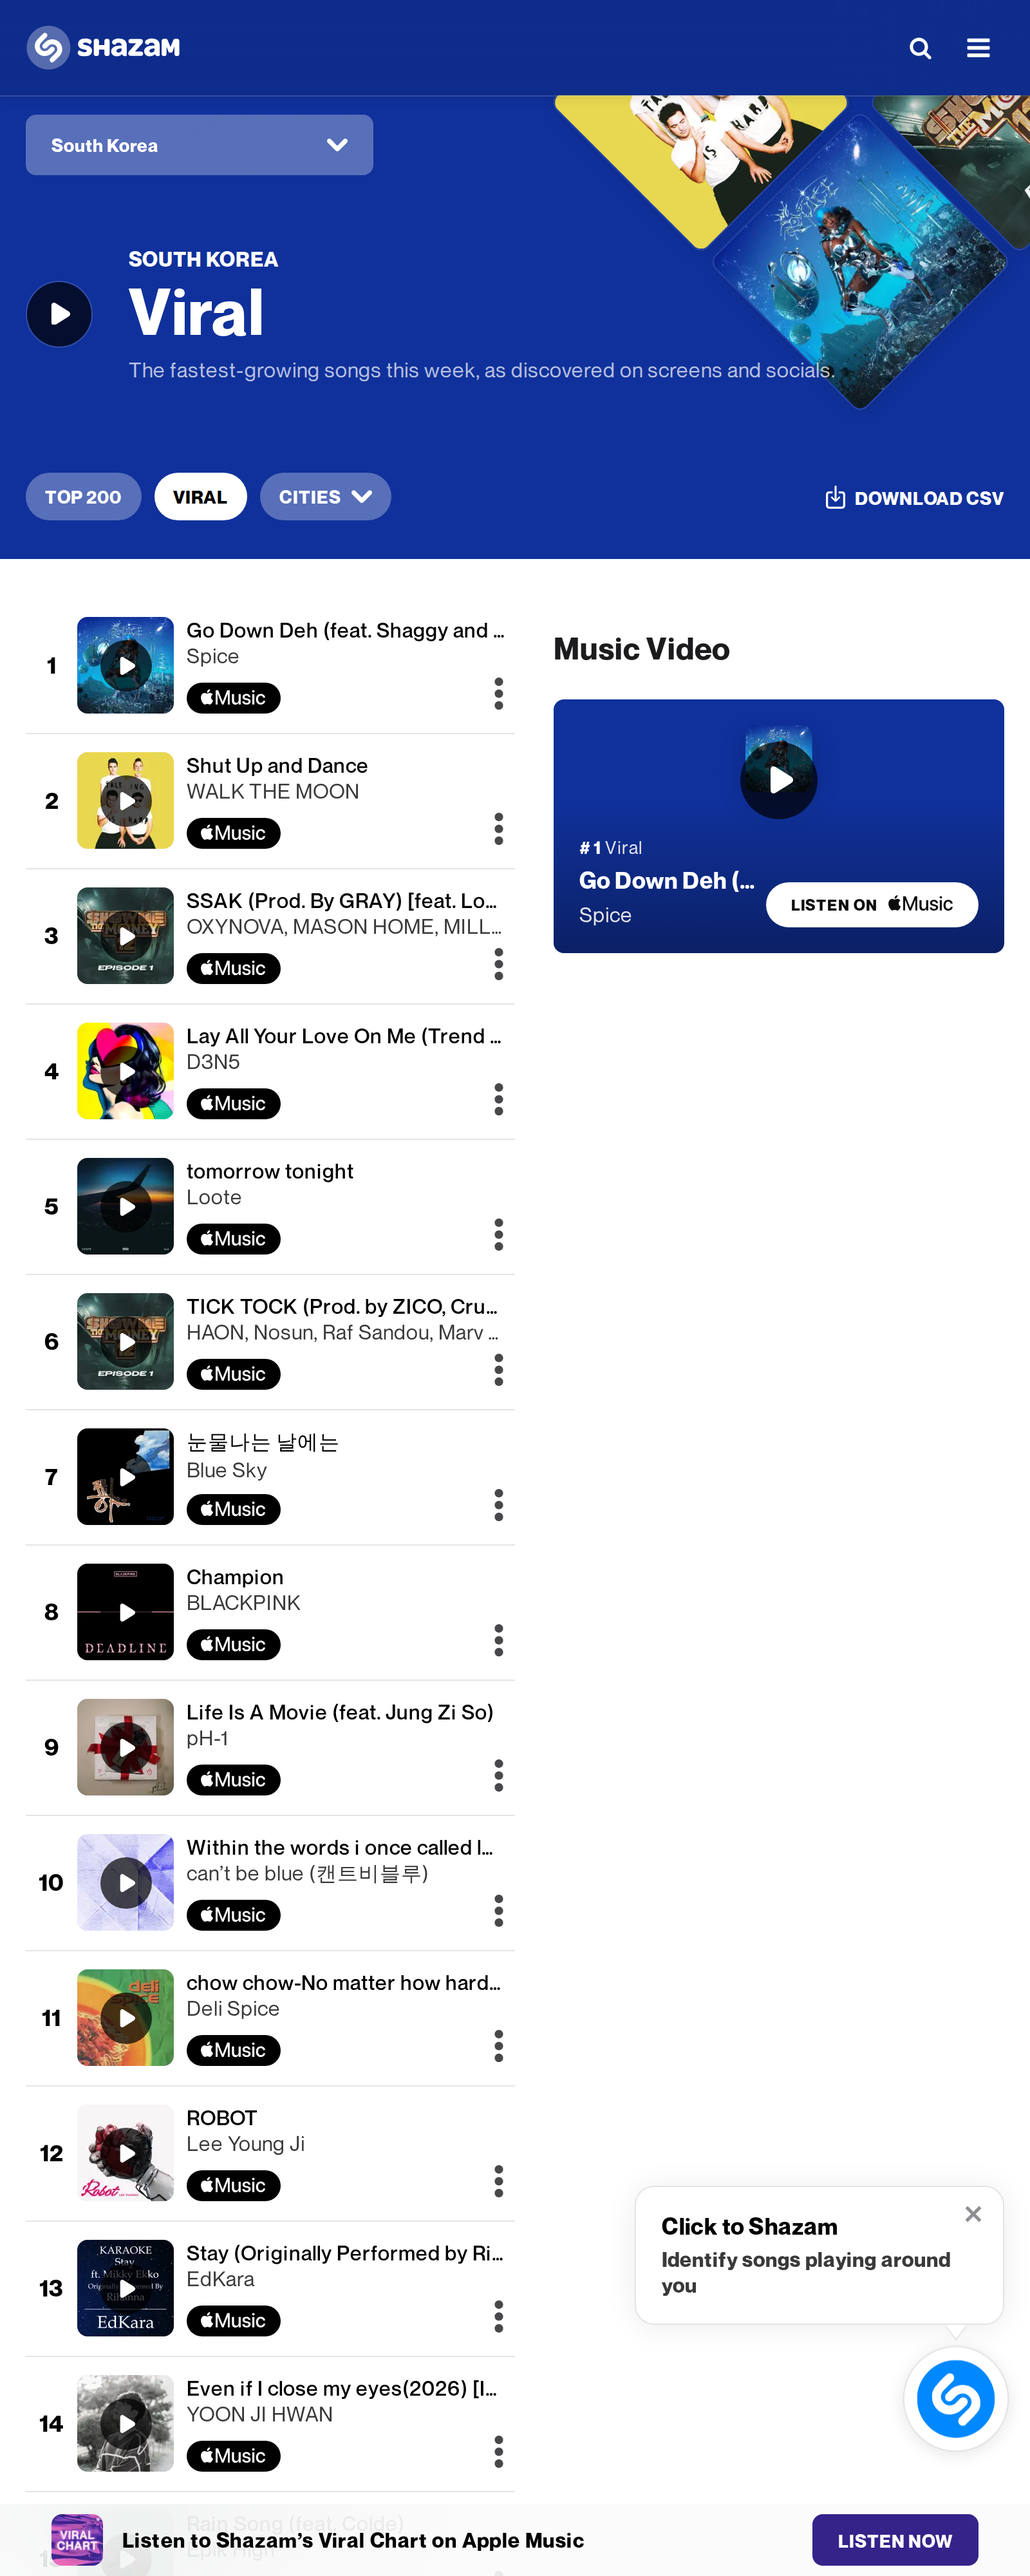
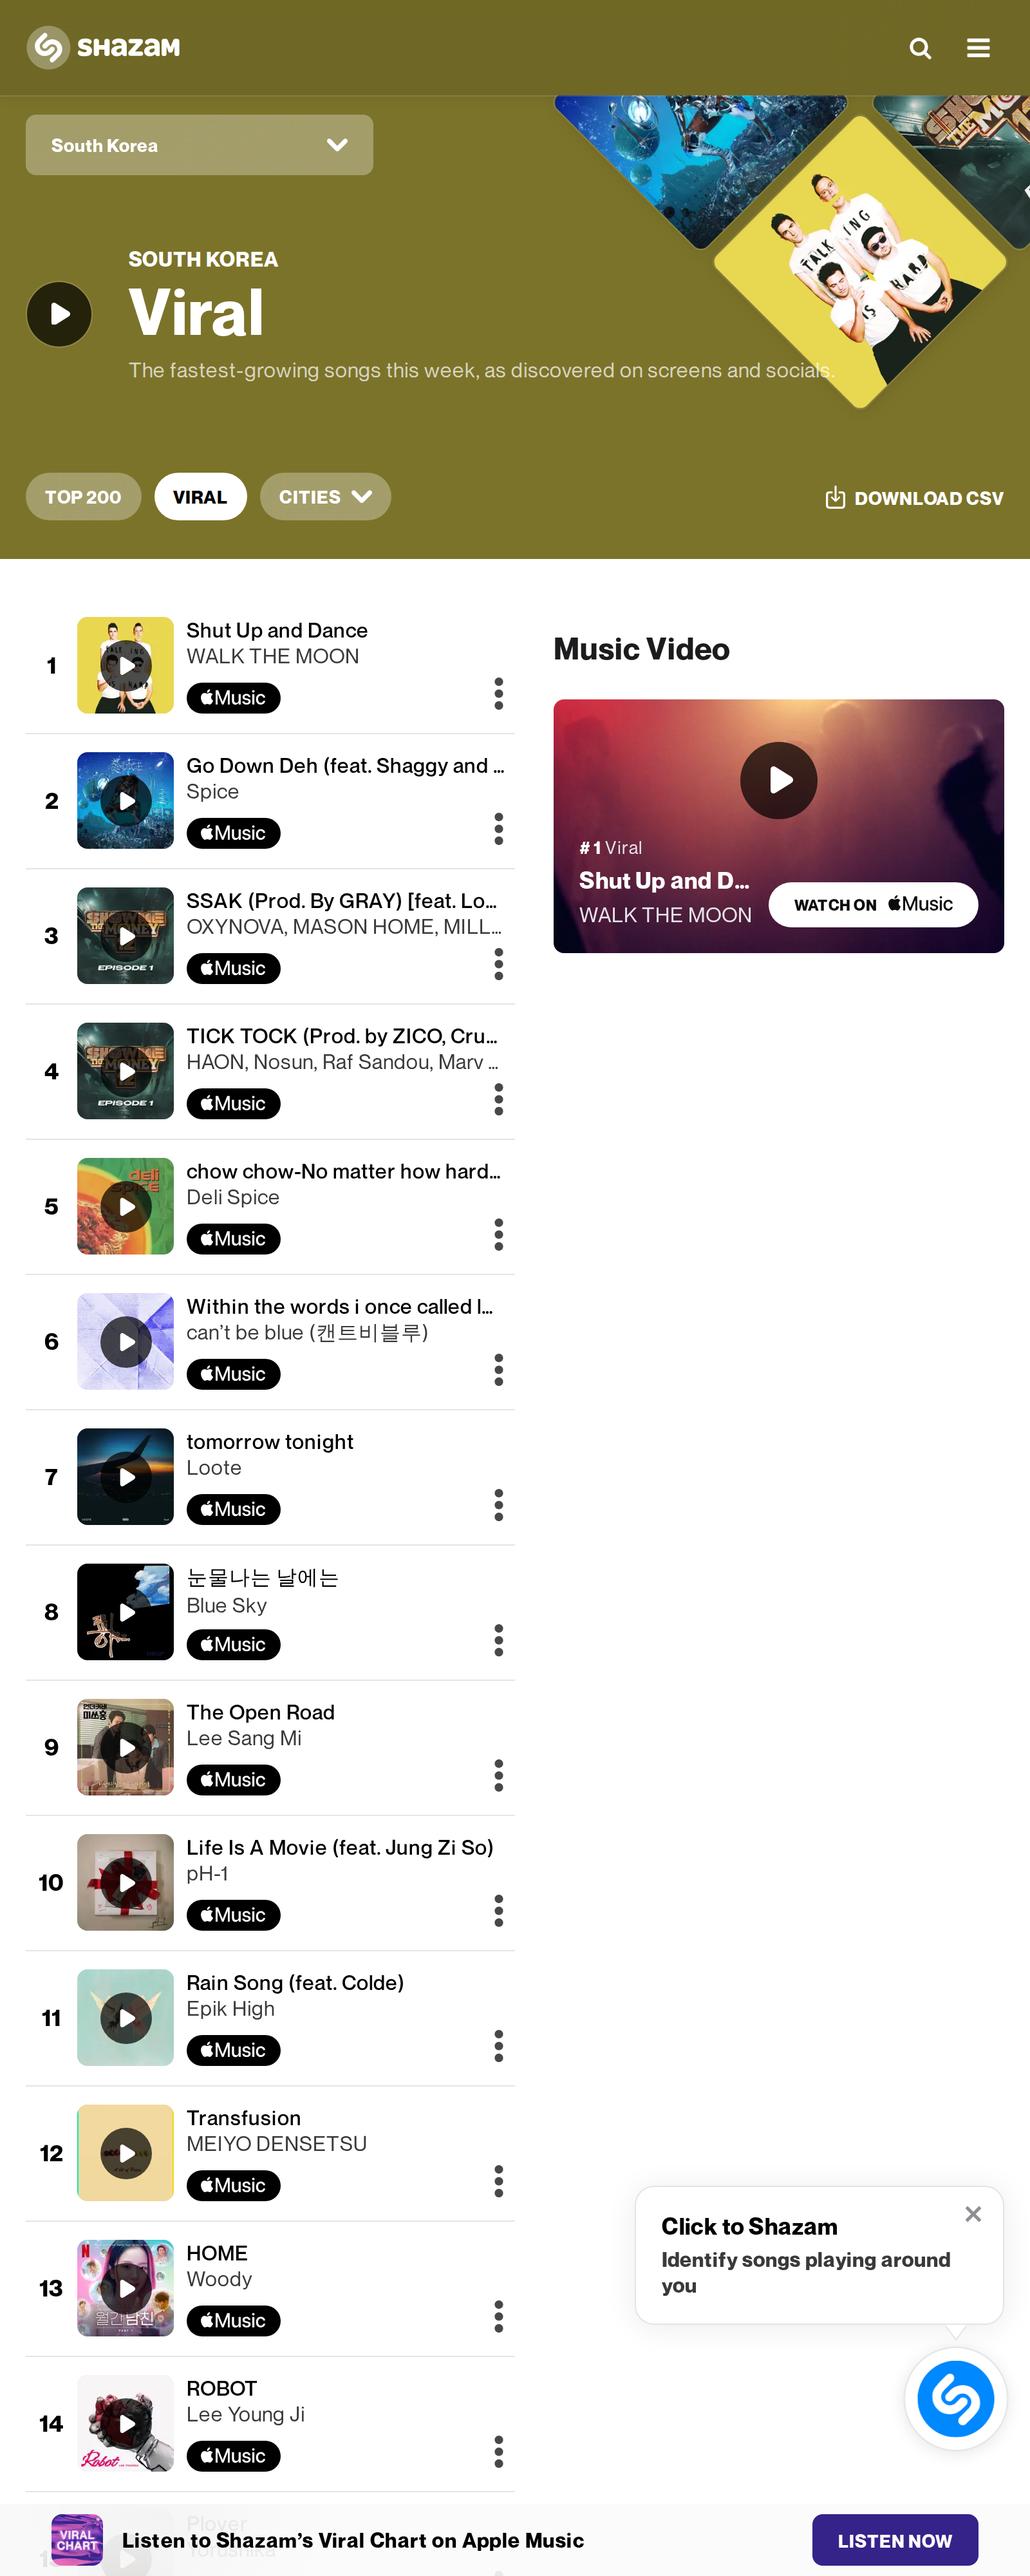
Auto-update: 차트 캡처 및 사이트 빌드 완료 🎸

diff --git a/homepage/rank_data.js b/homepage/rank_data.js
@@ -1,5 +1,5 @@
 const rankData = {
-    "last_updated": "2026-03-09 08:25:05",
+    "last_updated": "2026-03-10 08:30:43",
     "billboard": [
         {
             "rank": 1,
@@ -189,31 +189,31 @@ const rankData = {
         },
         {
             "rank": 7,
-            "title": "0+0",
-            "artist": "한로로",
-            "image": "https://i.ytimg.com/vi/_Ngk-DCHfD0/hqdefault.jpg",
-            "videoId": "_Ngk-DCHfD0"
-        },
-        {
-            "rank": 8,
-            "title": "그대 작은 나의 세상이 되어",
-            "artist": "카더가든",
-            "image": "https://i.ytimg.com/vi/ZurHW2kBqrw/hqdefault.jpg",
-            "videoId": "ZurHW2kBqrw"
-        },
-        {
-            "rank": 9,
             "title": "TICK TOCK (Feat. ZICO) (Prod. by ZICO, Crush)",
             "artist": "김하온 (HAON)",
             "image": "https://i.ytimg.com/vi/0sxLgAVPWVs/hqdefault.jpg",
             "videoId": "0sxLgAVPWVs"
         },
         {
-            "rank": 10,
+            "rank": 8,
+            "title": "0+0",
+            "artist": "한로로",
+            "image": "https://i.ytimg.com/vi/_Ngk-DCHfD0/hqdefault.jpg",
+            "videoId": "_Ngk-DCHfD0"
+        },
+        {
+            "rank": 9,
             "title": "BLACKHOLE",
             "artist": "IVE (아이브)",
             "image": "https://i.ytimg.com/vi/1Lmy7qwmSMc/hqdefault.jpg",
             "videoId": "1Lmy7qwmSMc"
+        },
+        {
+            "rank": 10,
+            "title": "그대 작은 나의 세상이 되어",
+            "artist": "카더가든",
+            "image": "https://i.ytimg.com/vi/ZurHW2kBqrw/hqdefault.jpg",
+            "videoId": "ZurHW2kBqrw"
         }
     ],
     "shazam_korea": [
@@ -228,8 +228,8 @@ const rankData = {
             "rank": 2,
             "title": "Daydream",
             "artist": "WENDY",
-            "image": "https://i.ytimg.com/vi/L1rR_smhD78/hqdefault.jpg",
-            "videoId": "L1rR_smhD78"
+            "image": "https://i.ytimg.com/vi/ty_3ox-peHg/hqdefault.jpg",
+            "videoId": "ty_3ox-peHg"
         },
         {
             "rank": 3,
@@ -242,8 +242,8 @@ const rankData = {
             "rank": 4,
             "title": "Round and Round",
             "artist": "DISC JOCKEY",
-            "image": "https://i.ytimg.com/vi/Ubl7FytpH0A/hqdefault.jpg",
-            "videoId": "Ubl7FytpH0A"
+            "image": "https://i.ytimg.com/vi/Yi8muPjjjcU/hqdefault.jpg",
+            "videoId": "Yi8muPjjjcU"
         },
         {
             "rank": 5,
@@ -263,15 +263,15 @@ const rankData = {
             "rank": 7,
             "title": "Remember",
             "artist": "Yura",
-            "image": "https://i.ytimg.com/vi/snW35zrNE60/hqdefault.jpg",
-            "videoId": "snW35zrNE60"
+            "image": "https://i.ytimg.com/vi/1lA9UlXnYIQ/hqdefault.jpg",
+            "videoId": "1lA9UlXnYIQ"
         },
         {
             "rank": 8,
             "title": "A Cicada Sings",
             "artist": "JOOHNT",
-            "image": "https://i.ytimg.com/vi/iG2OH4whO5E/hqdefault.jpg",
-            "videoId": "iG2OH4whO5E"
+            "image": "https://i.ytimg.com/vi/9RspykhlGvE/hqdefault.jpg",
+            "videoId": "9RspykhlGvE"
         },
         {
             "rank": 9,
@@ -328,8 +328,8 @@ const rankData = {
             "rank": 6,
             "title": "TIKI TIKI (Slowed)",
             "artist": "Adzilik",
-            "image": "https://i.ytimg.com/vi/fcwEFW7yozs/hqdefault.jpg",
-            "videoId": "fcwEFW7yozs"
+            "image": "https://i.ytimg.com/vi/CL4j7viiN6A/hqdefault.jpg",
+            "videoId": "CL4j7viiN6A"
         },
         {
             "rank": 7,
@@ -342,8 +342,8 @@ const rankData = {
             "rank": 8,
             "title": "STAY HERE 4 LIFE",
             "artist": "Alec Benjamin",
-            "image": "https://i.ytimg.com/vi/yxKA0NnNJeo/hqdefault.jpg",
-            "videoId": "yxKA0NnNJeo"
+            "image": "https://i.ytimg.com/vi/j_9LN8x2z3k/hqdefault.jpg",
+            "videoId": "j_9LN8x2z3k"
         },
         {
             "rank": 9,
@@ -393,8 +393,8 @@ const rankData = {
             "rank": 5,
             "title": "NO BATIDÃO (SLOWED)",
             "artist": "ZX&J & Slxughter",
-            "image": "https://i.ytimg.com/vi/o6ryW79G_mY/hqdefault.jpg",
-            "videoId": "o6ryW79G_mY"
+            "image": "https://i.ytimg.com/vi/orOgilmiL_4/hqdefault.jpg",
+            "videoId": "orOgilmiL_4"
         },
         {
             "rank": 6,
@@ -486,15 +486,15 @@ const rankData = {
             "rank": 8,
             "title": "VOCÊ NA MIRA",
             "artist": "MC PH, Hwungli & DJ YGKT",
-            "image": "https://i.ytimg.com/vi/s8A9qvAnSg0/hqdefault.jpg",
-            "videoId": "s8A9qvAnSg0"
+            "image": "https://i.ytimg.com/vi/rWCY-0svDQg/hqdefault.jpg",
+            "videoId": "rWCY-0svDQg"
         },
         {
             "rank": 9,
             "title": "GOZALO",
             "artist": "Aris",
-            "image": "https://i.ytimg.com/vi/-ZRMiQwWxj0/hqdefault.jpg",
-            "videoId": "-ZRMiQwWxj0"
+            "image": "https://i.ytimg.com/vi/QUH0_vbeggQ/hqdefault.jpg",
+            "videoId": "QUH0_vbeggQ"
         },
         {
             "rank": 10,
